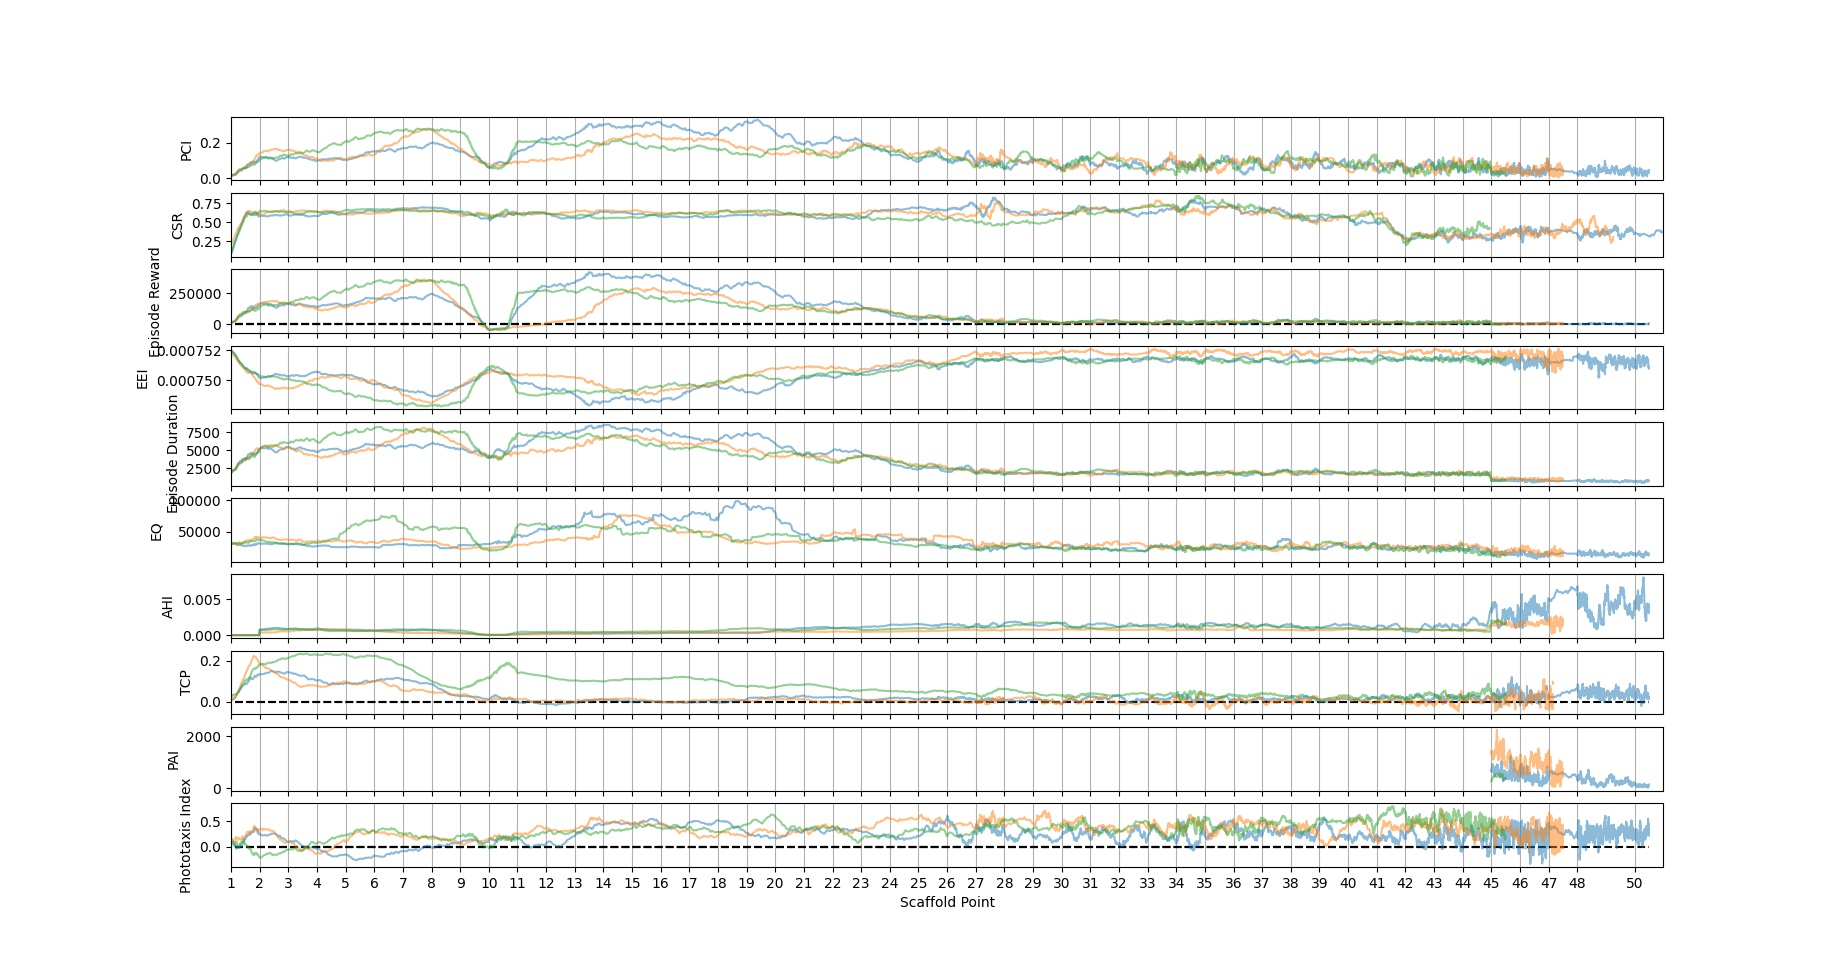
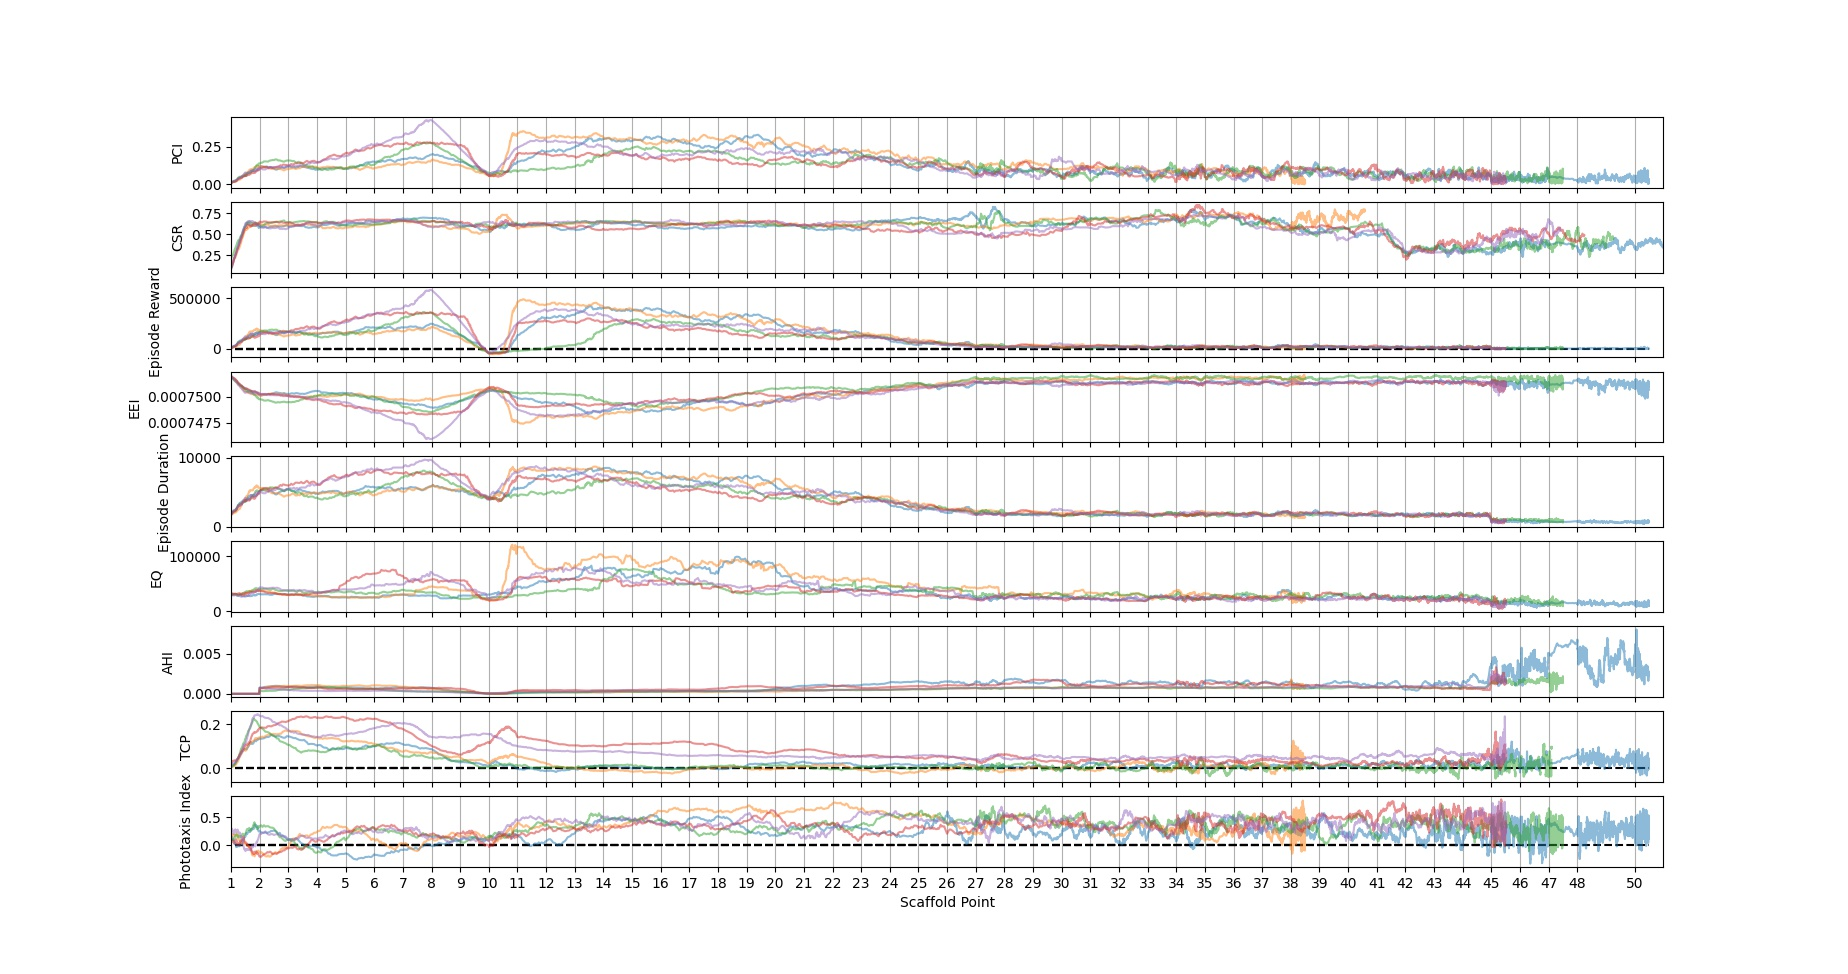
Built new action mask

Changed region(s): [[0.0617, 0.1232, 0.8945, 0.8932]]

diff --git a/Environment/Action_Space/Bout_classification/action_masking.py b/Environment/Action_Space/Bout_classification/action_masking.py
@@ -12,7 +12,9 @@ import h5py
 from sklearn.cluster import DBSCAN
 import statsmodels.api as sm
 import seaborn as sns
+import scipy.stats as st
 
+from Analysis.Training.tools import find_nearest
 # tf.disable_v2_behavior()
 
 # f = h5py.File('BoutMapCenters_kNN4_74Kins4dims_1.75Smooth_slow_3000_auto_4roc_merged11.mat', 'r')
@@ -45,6 +47,57 @@ Important indices (subtract 1?):
 """
 
 
+def produce_action_mask():
+    res = 50   # Need to ensure resolution isn't too high as to drag the final mask down.
+    kde, valid_bouts = get_action_mask()
+
+    # Display KDE evaluation grid
+    impulse_range = np.linspace(0, 50, res)
+    angle_range = np.linspace(0, 5, res)
+    X, Y = np.meshgrid(impulse_range, angle_range)
+    X_, Y_ = np.expand_dims(X, 2), np.expand_dims(Y, 2)
+    full_grid = np.concatenate((X_, Y_), axis=2).reshape((-1, 2))
+    full_grid = np.swapaxes(full_grid, 0, 1)
+
+    # Evaluate KDE Over Grid
+    values = kde(full_grid)
+    pdf = np.reshape(values, (res, res))
+    pdf /= np.max(pdf)
+    pdf = np.flip(pdf, 0)
+
+    # Find which points in the grid should be considered true by found threshold
+    nearest_i = np.array([find_nearest(impulse_range, v[0]) for v in valid_bouts])
+    nearest_a = np.array([find_nearest(angle_range, v[1]) for v in valid_bouts])
+
+    impulses = impulse_range[nearest_i]
+    angles = angle_range[nearest_a]
+
+    correct_bout_pairs = copy.copy(X)
+    correct_bout_pairs[:, :] = False
+    correct_bout_pairs[nearest_i, nearest_a] = True
+
+    correct_bout_pairs[correct_bout_pairs == 0] = -1
+    correct_bout_pairs = np.flip(correct_bout_pairs, 0)
+
+    # Iterate over thresholds, determining how many points have successfully matched.
+    for thres in np.linspace(0, 1, 10000):
+        above_thresold = (pdf > thres)
+        correctly_identified = (above_thresold * correct_bout_pairs) * 1
+        print(f"Threshold: {thres}, Correct: {np.sum(correctly_identified)}")
+
+    plt.imshow(pdf, extent=[0, 50, 0, 5])
+    plt.scatter(impulses, angles, alpha=0.01)
+    plt.savefig("PDF vals 2.png")
+    plt.clf()
+    plt.close()
+
+    plt.imshow(pdf, extent=[0, 50, 0, 5])
+    plt.savefig("PDF vals.png")
+    plt.show()
+    # plt.clf()
+    # plt.close()
+    x = True
+
 def get_action_mask():
     try:
         mat = scipy.io.loadmat("./Environment/Action_Space/Bout_classification/bouts.mat")
@@ -54,7 +107,6 @@ def get_action_mask():
         except FileNotFoundError:
             mat = scipy.io.loadmat("../../../Environment/Action_Space/Bout_classification/bouts.mat")
 
-
     bout_kinematic_parameters_final_array = mat["BoutKinematicParametersFinalArray"]
     dist_angles = bout_kinematic_parameters_final_array[:, 10]  # Angles including glide
     distance_x_inc_glide = bout_kinematic_parameters_final_array[:, 18]  # In mm
@@ -62,7 +114,7 @@ def get_action_mask():
 
     distance = (distance_x_inc_glide ** 2 + distance_y_inc_glide ** 2) ** 0.5
 
-    impulse = (distance * 10 - (0.004644 * 140.0 + 0.081417)) / 1.771548
+    impulse = distance * 10 * 0.34452532909386484
     dist_angles_radians = (np.absolute(dist_angles) / 180) * np.pi
 
     impulse = np.expand_dims(impulse, 1)
@@ -78,16 +130,16 @@ def get_action_mask():
     sorted_actions = sorted_actions[sorted_actions[:, 1] >= 0]
 
     print("Creating action mask...")
-    kde_impulse = sm.nonparametric.KDEMultivariate(data=sorted_actions[:, 0], var_type='c', bw='cv_ml')
-    kde_angle = sm.nonparametric.KDEMultivariate(data=sorted_actions[:, 1], var_type='c', bw='cv_ml')
+    sorted_actions = np.swapaxes(sorted_actions, 0, 1)
+    kernel = st.gaussian_kde(sorted_actions)
     print("Action mask created")
 
-    accepted_actions = (kde_impulse.pdf(sorted_actions[:, 0]) * kde_angle.pdf(np.absolute(sorted_actions[:, 1]))) >= 0.0000389489489
-    valid_actions = sorted_actions[accepted_actions]
-    return kde_impulse, kde_angle, valid_actions
+    sorted_actions = np.swapaxes(sorted_actions, 0, 1)
+
+    return kernel, sorted_actions
 
 
-if __name__ == "__main__":
+def create_action_mask_old():
     mat = scipy.io.loadmat("bouts.mat")
     bout_kinematic_parameters_final_array = mat["BoutKinematicParametersFinalArray"]
     angles = bout_kinematic_parameters_final_array[:, 9]
@@ -97,7 +149,6 @@ if __name__ == "__main__":
     distance_y = bout_kinematic_parameters_final_array[:, 15]
     distance_x_inc_glide = bout_kinematic_parameters_final_array[:, 18]
     distance_y_inc_glide = bout_kinematic_parameters_final_array[:, 19]
-
 
     # plt.hist(max_angles, bins=1000)
     # plt.show()
@@ -115,9 +166,8 @@ if __name__ == "__main__":
     # plt.scatter(distance_y, distance_y_inc_glide)
     # plt.show()
 
-
     # Want actual distance moved - combination of both.
-    distance = (distance_x_inc_glide**2 + distance_y_inc_glide**2)**0.5
+    distance = (distance_x_inc_glide ** 2 + distance_y_inc_glide ** 2) ** 0.5
 
     # Plot distance against angles in heatmap to get idea of distribution.
     # plt.scatter(np.absolute(angles), distance, alpha=0.2)
@@ -132,7 +182,7 @@ if __name__ == "__main__":
     #
     # # Convert impulse for specific mass
     impulse = (distance * 10 - (0.004644 * 140.0 + 0.081417)) / 1.771548
-    dist_angles_radians = (np.absolute(dist_angles)/180) * np.pi
+    dist_angles_radians = (np.absolute(dist_angles) / 180) * np.pi
     plt.scatter(dist_angles_radians, impulse, alpha=0.2)
     plt.xlabel("Angle (radians)")
     plt.ylabel("Impulse")
@@ -163,7 +213,6 @@ if __name__ == "__main__":
     # # z = z[:, 0] + z[:, 1]
     # outliers = actions[z[:, 0]>1.5 or z[:, 1]>1.5]
 
-
     # for i, s in enumerate(range(1, 20)):
     #     figure, axs = plt.subplots(3, 3)
     #     figure.set_size_inches(18, 18)
@@ -176,7 +225,6 @@ if __name__ == "__main__":
     #         axs[j//3, j%3].set_ylabel("Full Angle (Radians)")
     #         axs[j//3, j%3].set_xlabel(f"Impulse,Samples: {s}, eps: {ep}")
     #     plt.show()
-
 
     # Best parameters; 1.0, 5    -    0.775, 4   -    5, 0.6625       -      5, 0.8125
     model = DBSCAN(eps=0.8125, min_samples=5).fit(actions)
@@ -224,7 +272,6 @@ if __name__ == "__main__":
     # ax.scatter(impulse[:, 0], dist_angles_radians[:, 0], np.exp(log_density_of_original))
     # plt.show()
 
-
     # Jointplot
 
     # action_data = {"x": actions[:, 0], "y": actions[:, 1]}
@@ -235,7 +282,6 @@ if __name__ == "__main__":
     #
     # plt.show()
 
-
     # KDF 2
     indices_of_valid = (model.labels_ != -1) * 1
     sorted_actions = np.array([sorted_actions])
@@ -245,7 +291,6 @@ if __name__ == "__main__":
     probs = bw_ml_x.pdf(actions[:, :, 0]) * bw_ml_y.pdf(actions[:, :, 1])
     probs2 = copy.copy(probs)
 
-
     fig = plt.figure(figsize=(12, 12))
     ax = fig.add_subplot(projection='3d')
     ax.scatter(dist_angles_radians[:, 0], impulse[:, 0], probs)
@@ -253,7 +298,6 @@ if __name__ == "__main__":
     ax.set_xlabel("Angle (radians)")
     ax.set_zlabel("Probability density")
     plt.show()
-
 
     # Thresholding                                       Best: [2.3733733733733735e-05, 8183]
     # print(f"Total inliers: {np.sum(indices_of_valid)}")
@@ -292,8 +336,8 @@ if __name__ == "__main__":
     #                     Integrating distribution
 
     # Number of should have samples = 12 x 350
-    possible_impulse = np.linspace(0, 350, 1000)   # Divide total by 100
-    possible_angle = np.linspace(0, 12, 1000)   # Divide total by 100
+    possible_impulse = np.linspace(0, 350, 1000)  # Divide total by 100
+    possible_angle = np.linspace(0, 12, 1000)  # Divide total by 100
     possible_impulse, possible_angle = np.meshgrid(possible_angle, possible_impulse)
     possible_impulse, possible_angle = possible_impulse.flatten(), possible_angle.flatten()
 
@@ -303,7 +347,6 @@ if __name__ == "__main__":
     t = 0.01587368
 
     for threshold in np.linspace(t, 0.1, 20):
-
         # probs2[probs < threshold] = 0
         # probs2[probs > threshold] = 1
         #
@@ -318,11 +361,6 @@ if __name__ == "__main__":
         # print(np.sum(probs2))
         plt.scatter(dist_angles_radians[probs > threshold][:, 0], impulse[probs > threshold][:, 0])
         plt.show()
-
-
-
-
-
 
     x = True
 
@@ -361,4 +399,8 @@ if __name__ == "__main__":
     # plt.pcolormesh(xi, yi, zi)
     # plt.show()
     #
+
+
+if __name__ == "__main__":
+    produce_action_mask()
 

diff --git a/Analysis/Calibration/Physics/predator_escape_calibration.py b/Analysis/Calibration/Physics/predator_escape_calibration.py
@@ -47,7 +47,7 @@ def plot_escape_success(n_repeats=1, use_action_means=True,
                     impulse = None
                     angle = None
 
-            s, fish_pos, pred_pos = env.run(vector, fixed_action=use_action_means, continuous=continuous, set_impulse=impulse,
+            s, fish_pos, pred_pos = env.run_predator_escape(vector, fixed_action=use_action_means, continuous=continuous, set_impulse=impulse,
                         set_angle=angle, specified_action=specified_action)
             pred_final_positions.append(pred_pos)
 
@@ -123,22 +123,26 @@ def plot_escape_success(n_repeats=1, use_action_means=True,
 
 if __name__ == "__main__":
     #           PPO
-    plot_escape_success(n_repeats=10,
-                        use_action_means=False, continuous=True, set_impulse=0,
-                        set_angle=0,
-                        impulse_effect_noise=0.1, angular_effect_noise=0.6, predator_impulse=25)
+    # Simulating rest
+    # plot_escape_success(n_repeats=10,
+    #                     use_action_means=False, continuous=True, set_impulse=0,
+    #                     set_angle=0,
+    #                     impulse_effect_noise=0.1, angular_effect_noise=0.6, predator_impulse=25)
+    # Simulating SLC
     plot_escape_success(n_repeats=10,
                         use_action_means=False, continuous=True, set_impulse=7.03322223 * 3.4452532909386484,
                         set_angle=0.67517832,
                         impulse_effect_noise=0.1, angular_effect_noise=0.6, predator_impulse=25)
-    plot_escape_success(n_repeats=10,
-                        use_action_means=False, continuous=True, set_impulse=2.74619216 * 3.4452532909386484,
-                        set_angle=0.82713249,
-                        impulse_effect_noise=0.1, angular_effect_noise=0.6, predator_impulse=25)
-    plot_escape_success(n_repeats=10,
-                        use_action_means=False, continuous=True, set_impulse=2.49320953e+00 * 3.4452532909386484,
-                        set_angle=2.36217665e-19,
-                        impulse_effect_noise=0.1, angular_effect_noise=0.6, predator_impulse=25)
+    # Simulating RT
+    # plot_escape_success(n_repeats=10,
+    #                     use_action_means=False, continuous=True, set_impulse=2.74619216 * 3.4452532909386484,
+    #                     set_angle=0.82713249,
+    #                     impulse_effect_noise=0.1, angular_effect_noise=0.6, predator_impulse=25)
+    # Simulating Scs
+    # plot_escape_success(n_repeats=10,
+    #                     use_action_means=False, continuous=True, set_impulse=2.49320953e+00 * 3.4452532909386484,
+    #                     set_angle=2.36217665e-19,
+    #                     impulse_effect_noise=0.1, angular_effect_noise=0.6, predator_impulse=25)
 
     #           DQN
     # plot_escape_success(n_repeats=10,
@@ -153,8 +157,8 @@ if __name__ == "__main__":
     #                     use_action_means=False, continuous=False, set_impulse=0,
     #                     set_angle=0.0,
     #                     impulse_effect_noise=0.14, angular_effect_noise=0.5, predator_impulse=25., specified_action=0)
-    # plot_escape_success(n_repeats=10,
-    #                     use_action_means=False, continuous=False, set_impulse=0,
-    #                     set_angle=0.0,
-    #                     impulse_effect_noise=0.14, angular_effect_noise=0.5, predator_impulse=25., specified_action=7)
+    plot_escape_success(n_repeats=10,
+                        use_action_means=False, continuous=False, set_impulse=0,
+                        set_angle=0.0,
+                        impulse_effect_noise=0.14, angular_effect_noise=0.5, predator_impulse=25., specified_action=7)
 

diff --git a/Analysis/Training/plot_metrics_newest.py b/Analysis/Training/plot_metrics_newest.py
@@ -386,7 +386,7 @@ if __name__ == "__main__":
                                                       10])  # , key_scaffold_points=[10, 16, 31])
     plot_multiple_metrics_multiple_models(dqn_models_mod, chosen_metrics_dqn_mod, window=40, interpolate_scaffold_points=True,
                                           figure_name="dqn_beta_mod")#, key_scaffold_points=[10, 16, 31])
-    plot_multiple_metrics_multiple_models(ppo_models, chosen_metrics_ppo, window=40, interpolate_scaffold_points=True,
-                                          figure_name="ppo_beta")
-    plot_multiple_metrics_multiple_models(ppo_models_mod, chosen_metrics_ppo_mod, window=40, interpolate_scaffold_points=True,
-                                          figure_name="ppo_beta_mod")
+    # plot_multiple_metrics_multiple_models(ppo_models, chosen_metrics_ppo, window=40, interpolate_scaffold_points=True,
+    #                                       figure_name="ppo_beta")
+    # plot_multiple_metrics_multiple_models(ppo_models_mod, chosen_metrics_ppo_mod, window=40, interpolate_scaffold_points=True,
+    #                                       figure_name="ppo_beta_mod")

diff --git a/Environment/Action_Space/display_action_mask.py b/Environment/Action_Space/display_action_mask.py
@@ -1,0 +1,28 @@
+import numpy as np
+import matplotlib.pyplot as plt
+
+from Environment.Action_Space.Bout_classification.action_masking import get_action_mask
+
+
+if __name__ == "__main__":
+    kde_i, kde_a, accepted_bouts = get_action_mask()
+
+    x = np.linspace(0, 100, num=400)
+    y = np.linspace(0, 5, num=400)
+    X, Y = np.meshgrid(x, y)
+    X_flat = X.flatten()
+    Y_flat = Y.flatten()
+
+    i_probs = kde_i.pdf(X_flat).reshape((400, 400))
+    a_probs = kde_a.pdf(Y_flat).reshape((400, 400))
+    probs = i_probs * a_probs
+    # accepted_region = (probs >= 0.0000389489489) * 1.0
+    probs **= 0.1
+    accepted_region = probs
+    accepted_region = accepted_region[::-1, :]
+
+    plt.imshow(accepted_region, extent=[0, 100, 0, 5])
+    # plt.scatter(accepted_bouts[:, 0], accepted_bouts[:, 1])
+    plt.show()
+
+

diff --git a/Analysis/Behavioural/Discrete/display_action_sequences_block.py b/Analysis/Behavioural/Discrete/display_action_sequences_block.py
@@ -53,8 +53,8 @@ def display_average_sequence(sequences):
 
 # VERSION 2
 if __name__ == "__main__":
-    capture_sequences = get_capture_sequences(f"dqn_beta-1", "Behavioural-Data-Free", "Naturalistic", 20)
-    display_all_sequences(capture_sequences, indicate_consumption=True, save_figure=True, figure_name="Captures-dqn_beta-1")
+    capture_sequences = get_capture_sequences(f"dqn_scaffold_33-2", "Behavioural-Data-Free", "Naturalistic", 20)
+    display_all_sequences(capture_sequences, indicate_consumption=True, save_figure=True, figure_name="Captures-dqn_33-1")
 
     #                            SAND GRAIN INTERACTION SEQUENCES
     # seq = get_sand_grain_engagement_sequences_multiple_trials("dqn_scaffold_33-1", "Behavioural-Data-Free", "Naturalistic",

diff --git a/Environment/Action_Space/action_space_display_comparison.py b/Environment/Action_Space/action_space_display_comparison.py
@@ -184,10 +184,10 @@ def display_labelled_marques_bouts_with_dists(env_variables):
 
     # Add PPO action space outline
     kde_i, kde_a, ppo_action_space = get_action_mask()
-    tested_region = kde_i.pdf(X.flatten()).reshape((400, 400)) * kde_a.pdf(Y.flatten()).reshape((400, 400))
-    accepted_region = (tested_region > 0) * 0.2
+    tested_region = kde_i.pdf(X.flatten() * 3.4452532909386484).reshape((400, 400)) * kde_a.pdf(Y.flatten()).reshape((400, 400))
+    accepted_region = (tested_region >= 0.0000389489489) * 0.2
 
-    pdf -= accepted_region
+    pdf -= np.expand_dims(accepted_region, 2)
 
     axs.imshow(pdf, extent=[0, 12, -1, 5], aspect="auto")
 

diff --git a/Networks/Distributions/masked_multivariate_normal.py b/Networks/Distributions/masked_multivariate_normal.py
@@ -28,7 +28,8 @@ class MaskedMultivariateNormal(tfp.distributions.MultivariateNormalDiag):
 
         distance = (distance_x_inc_glide ** 2 + distance_y_inc_glide ** 2) ** 0.5
 
-        impulse = (distance * 10 - (0.004644 * 140.0 + 0.081417)) / 1.771548
+        impulse = distance * 10 * 0.34452532909386484
+        # impulse = (distance * 10 - (0.004644 * 140.0 + 0.081417)) / 1.771548
         dist_angles_radians = (np.absolute(dist_angles) / 180) * np.pi
 
         impulse = impulse / impulse_scaling

diff --git a/run.py b/run.py
@@ -5184,5 +5184,5 @@ else:
     run_config = globals()[run_config]
 
 print(f"Start time: {datetime.now().strftime('%d/%m/%Y %H:%M:%S')}")
-manager = TrialManager(run_config, parallel_jobs=1)   # TODO: ALWAYS CHECK THIS RIGHT
+manager = TrialManager(run_config, parallel_jobs=3)   # TODO: ALWAYS CHECK THIS RIGHT
 manager.run_priority_loop()
